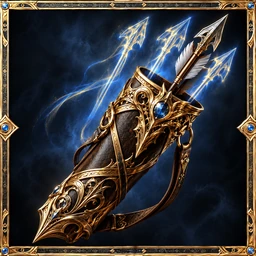
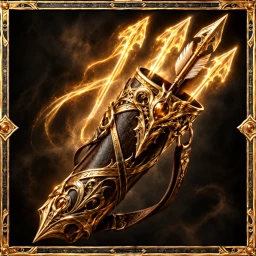
fix(artifacts): warm Quiver of Echoes art and simplify descriptions

diff --git a/site/src/lib/mechanics/artifact-fit.ts b/site/src/lib/mechanics/artifact-fit.ts
@@ -189,10 +189,10 @@ const FITS: Record<string, Fit> = {
             : `+${n(A.TITAN_PLATE_PERCENT)}% of base armor for every unit — counted after the Armor augment, Pegasus Might and Wind Flow, and added as its own bonus, so percentage armor buffs don't multiply it: about ${n(100 - 10000 / (100 + A.TITAN_PLATE_PERCENT))}% less physical damage for everyone, whatever their armor. It also softens Fire Breath, but does nothing against cast spells or Fire Shield.`,
     "Mage's Ring": (language) => magicDealersFit(language),
     "Archmage's Ring": (language) => magicDealersFit(language),
-    "Quiver of Echoes": (language, n) =>
+    "Quiver of Echoes": (language) =>
         language === "ru"
-            ? `Для армий со стрелками: дополнительный залп с вероятностью ${n(A.QUIVER_OF_ECHOES_CHANCE)}% + текущая удача. Особенно полезен с Area Throw, Large Caliber, Through Shot и Chakram; сочетается с Double Shot и Double Throw. Поддерживайте запас боеприпасов: после его исчерпания эхо не вылетит. Юниты ближнего боя бонус не получают.`
-            : `For ranged armies: an extra volley at ${n(A.QUIVER_OF_ECHOES_CHANCE)}% + current luck. Particularly useful with Area Throw, Large Caliber, Through Shot and Chakram, and stacks with Double Shot and Double Throw. Keep ammunition available: an empty quiver cannot fire the echo. Melee units receive no bonus.`,
+            ? "Для армий со стрелками: шанс на дополнительный залп. Особенно полезен с Area Throw, Large Caliber, Through Shot и Chakram; сочетается с Double Shot и Double Throw. Поддерживайте запас боеприпасов: после его исчерпания эхо не вылетит. Юниты ближнего боя бонус не получают."
+            : "For ranged armies: a chance for an extra volley. Particularly useful with Area Throw, Large Caliber, Through Shot and Chakram, and stacks with Double Shot and Double Throw. Keep ammunition available: an empty quiver cannot fire the echo. Melee units receive no bonus.",
     "Aegis of the Arcane": (language, n) =>
         language === "ru"
             ? `Для армий, по которым бьют заклинаниями и магическим уроном, особенно если своя магическая защита низкая: +${n(A.AEGIS_OF_THE_ARCANE_MAGIC_DEFENSE)} пунктов — вся защита при 0 и всё ещё большая доля при 5–15. С Magic Shield, Wardguard, Warding Mane Blessing и Arcane Ward Blessing это отдельный бросок, а не сумма. Бесполезен для Black Dragon, пока держится Enchanted Skin (уже 100%); после Break дракон эти пункты сохраняет. Против Stun, Freeze, Paralysis, Blindness и взглядов не помогает.`

diff --git a/site/src/lib/mechanics/artifacts.ts b/site/src/lib/mechanics/artifacts.ts
@@ -149,10 +149,10 @@ const ARTIFACT_NOTES: Readonly<Record<string, NoteSpec>> = {
             `+${n(A.ARCHMAGES_RING_MAGIC_PERCENT)}% к магическому урону армии — заклинания, Fire Wall, Chain Lightning, Fire Breath и Fire Shield — в одной сумме с апгрейдом «Магия», свитком Empower и Sylvan Focus (с «Магией» 3 уровня это +44%).`,
     },
     "Quiver of Echoes": {
-        en: ({ n }) =>
-            `Each ranged attack action rolls once at ${n(A.QUIVER_OF_ECHOES_CHANCE)}% plus the shooter's current luck. Success adds one ordinary full-strength volley, including its splash or piercing effects. Double Shot and Double Throw still work, so Gargantuan can throw three times. The echo uses normal ammunition, cannot echo again, and does not grant another counterattack. The unit's in-fight artifact card shows its actual chance.`,
-        ru: ({ n }) =>
-            `Один бросок за действие дальней атаки: ${n(A.QUIVER_OF_ECHOES_CHANCE)}% плюс текущая удача стрелка. Успех добавляет один залп полной силы вместе с его уроном по площади или по линии. Double Shot и Double Throw сохраняются: Gargantuan может бросить трижды. Эхо расходует обычные боеприпасы, не повторяет само себя и не даёт ещё одной ответной атаки. Карточка артефакта юнита в бою показывает фактический шанс.`,
+        en: () =>
+            "Each ranged attack action can trigger one ordinary full-strength volley, including its splash or piercing effects. Double Shot and Double Throw still work, so Gargantuan can throw three times. The echo uses normal ammunition, cannot echo again, and does not grant another counterattack. The unit's in-fight artifact card shows its actual chance.",
+        ru: () =>
+            "Каждое действие дальней атаки может вызвать один дополнительный залп полной силы вместе с его уроном по площади или по линии. Double Shot и Double Throw сохраняются: Gargantuan может бросить трижды. Эхо расходует обычные боеприпасы, не повторяет само себя и не даёт ещё одной ответной атаки. Карточка артефакта юнита в бою показывает фактический шанс.",
     },
     "Aegis of the Arcane": {
         en: ({ n }) => {

diff --git a/site/src/lib/artifacts-data.ts b/site/src/lib/artifacts-data.ts
@@ -78,8 +78,7 @@ const ARTIFACT_DESCRIPTIONS_RU: Record<string, string> = {
     rime_charm: "{}% шанс, что любая атака замедлит цель на [] кругов.",
     lava_striders:
         "Все юниты армии могут ходить по лаве и стоять в ней; на центральной лаве они получают Made of Fire (+10% ко всем характеристикам и способностям).",
-    quiver_of_echoes:
-        "Стрелки с вероятностью {}% + текущая удача совершают одну дополнительную атаку полной силы. Один бросок за действие; сочетается с Double Shot и Double Throw, расходует обычные боеприпасы.",
+    quiver_of_echoes: "Стрелки с вероятностью {}% совершают одну дополнительную атаку.",
     aegis_of_the_arcane: "Даёт всей армии +{} процентных пунктов магической защиты.",
     archmages_ring: "Увеличивает весь магический урон армии на {}%.",
 };
